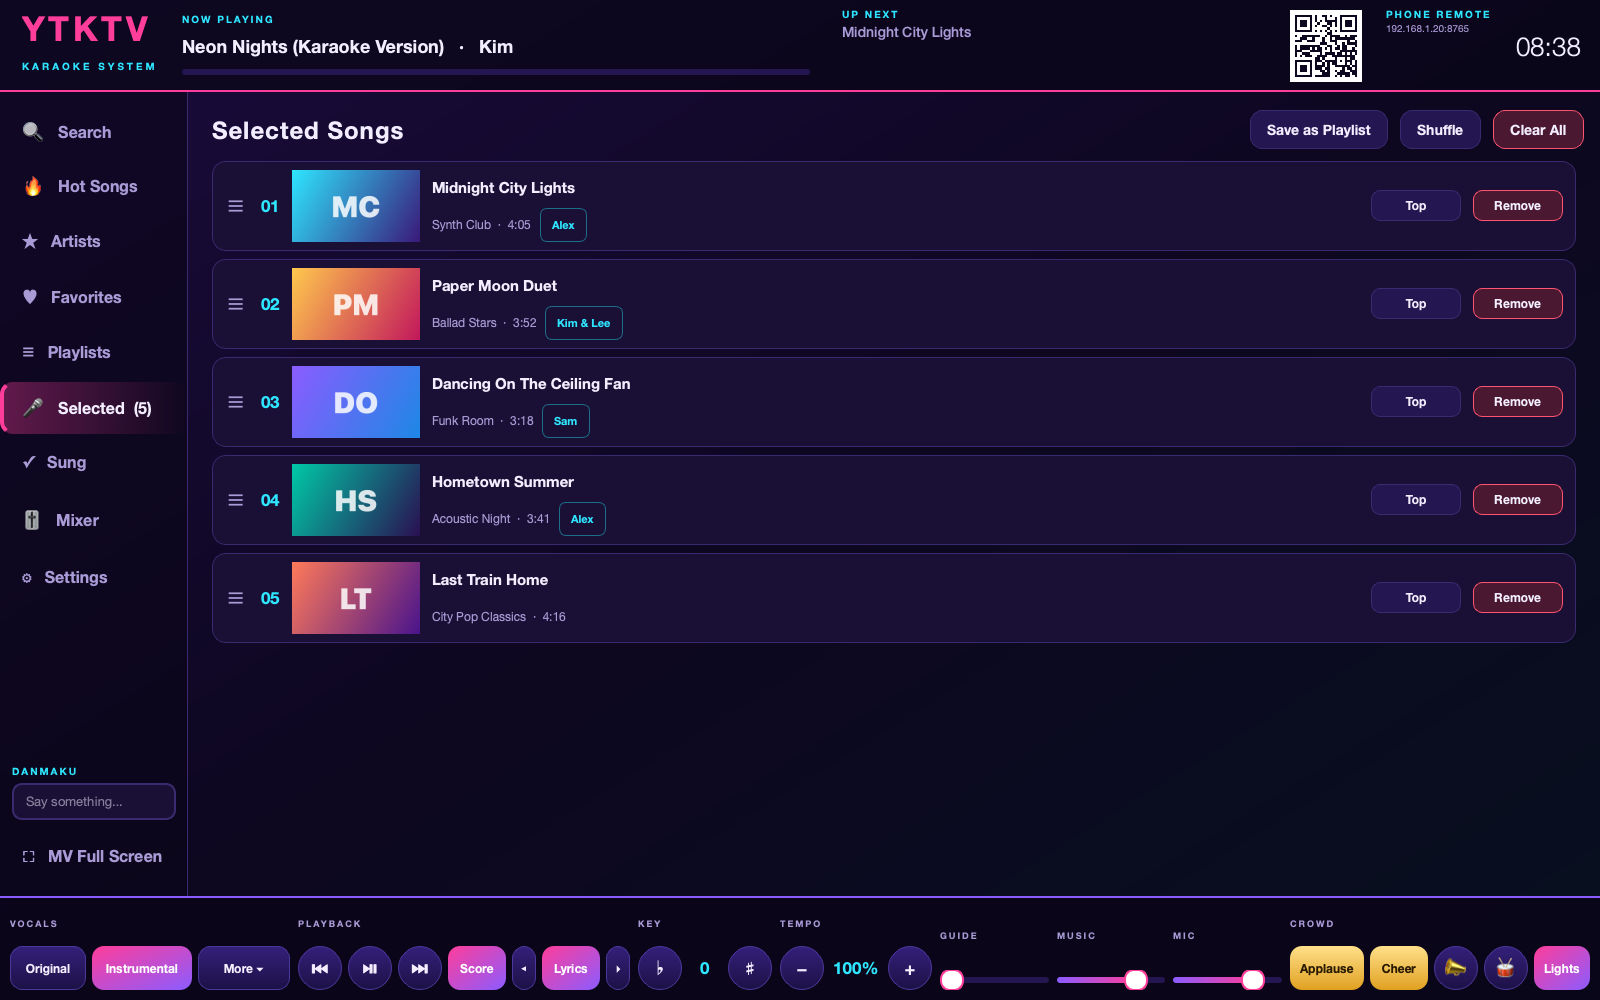
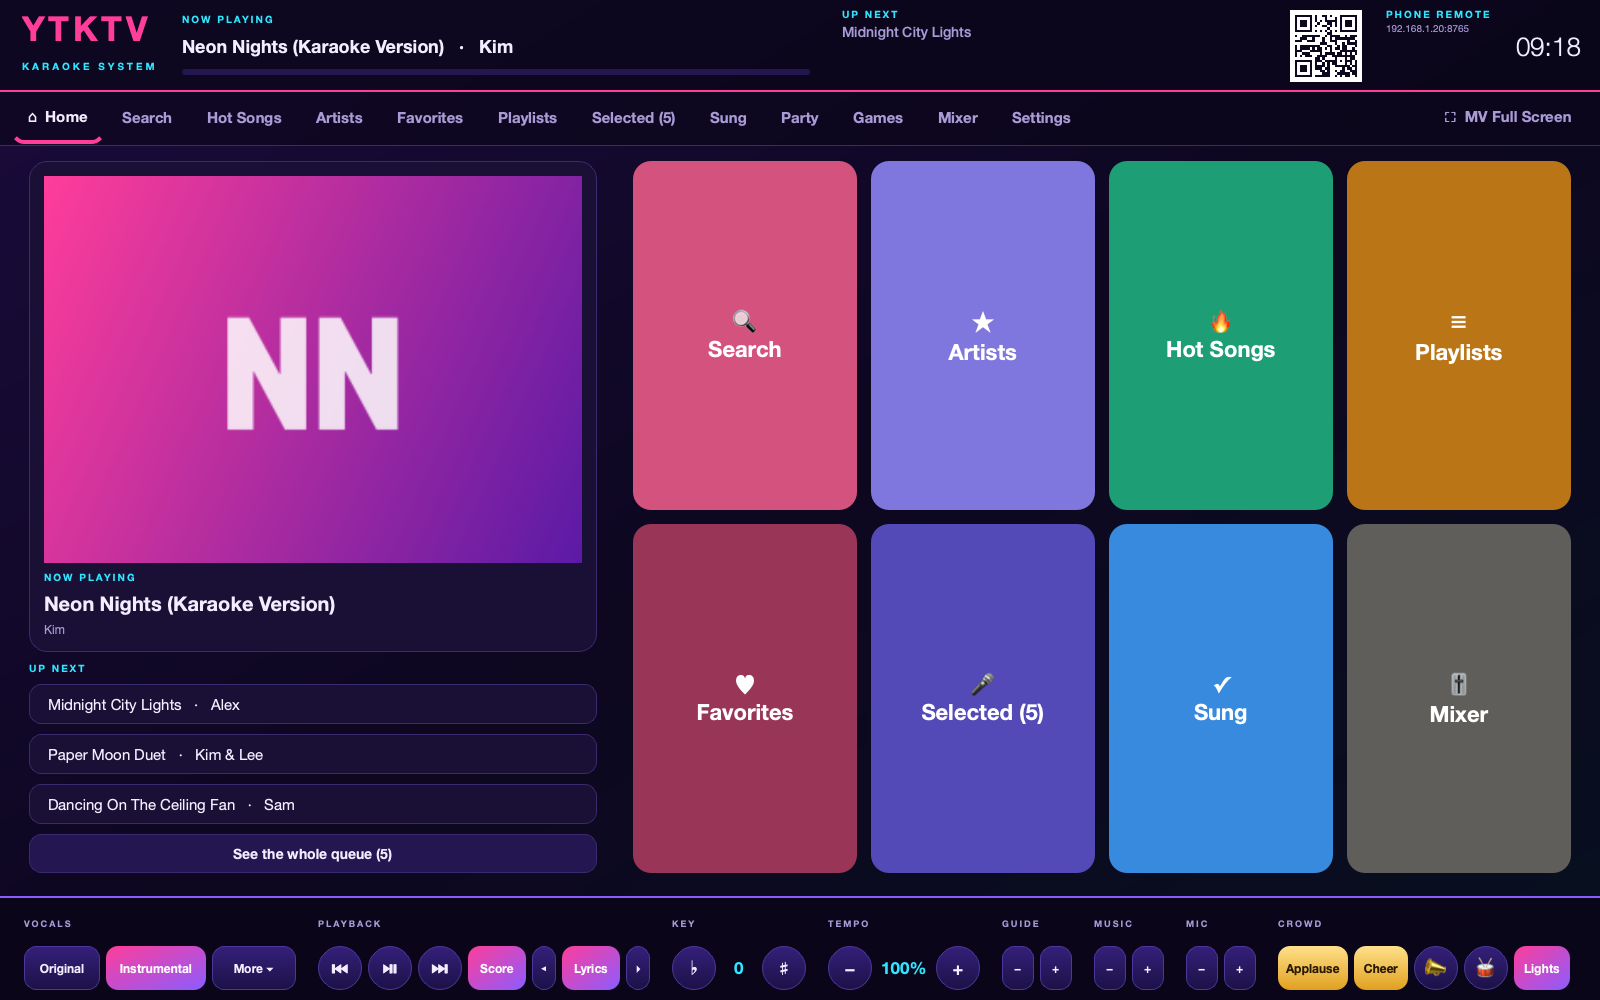
Retake the screenshots for the tile-wall console, Party and Games

diff --git a/site/index.html b/site/index.html
@@ -162,7 +162,7 @@
   <section>
     <div class="wrap">
       <div class="pair">
-        <img src="images/console.png" width="1600" height="1000" alt="The song console with the queue of selected songs" loading="lazy">
+        <img src="images/console.png" width="1600" height="1000" alt="The console home: now playing, up next and big tiles for every feature" loading="lazy">
         <div class="text">
           <h3 data-i18n="p1.t">A song console like the real thing</h3>
           <p data-i18n="p1.d">Big buttons, the queue at a glance, drag to reorder, playlists and favourites. The control bar has everything a KTV remote has.</p>

diff --git a/scripts/readme_images.py b/scripts/readme_images.py
@@ -125,10 +125,15 @@ def console(app: QApplication) -> None:
     run_for(
         app,
         [
-            (600, lambda: window.show_page("queue")),
+            (600, lambda: window.show_page("home")),
             (1500, lambda: window.grab().save(str(OUT / "console.png"))),
             (1600, lambda: window.show_page("mixer")),
             (2600, lambda: window.grab().save(str(OUT / "mixer.png"))),
+            (2700, lambda: window.show_page("party")),
+            (3600, lambda: window.grab().save(str(OUT / "party.png"))),
+            (3700, lambda: window.pages["games"].play("spin")),
+            (3800, lambda: window.show_page("games")),
+            (4700, lambda: window.grab().save(str(OUT / "games.png"))),
         ],
     )
 

diff --git a/README.md b/README.md
@@ -43,7 +43,8 @@ for macOS, Windows and Linux.
 
 | The song console | The mixing console |
 |---|---|
-| ![The song console with the queue of selected songs](docs/images/console.png) | ![The mixing console with four channel strips](docs/images/mixer.png) |
+| ![The console home: now playing, up next and big tiles for every feature](docs/images/console.png) | ![The mixing console with four channel strips](docs/images/mixer.png) |
+| ![The Party tab: danmaku, emoji reactions and crowd sounds](docs/images/party.png) | ![The Games tab: dice, who sings next, truth or dare](docs/images/games.png) |
 
 <p align="center">
   <img src="docs/images/phone.png" alt="The phone page: your songs with waiting times, the queue and tonight's best scores; and the remote with playback, lyrics and vocal controls" width="560">

diff --git a/README.zh-CN.md b/README.zh-CN.md
@@ -39,7 +39,8 @@
 
 | 点歌台 | 调音台 |
 |---|---|
-| ![点歌台的已点歌曲页面](docs/images/console.png) | ![四个通道的调音台](docs/images/mixer.png) |
+| ![点歌台首页：正在播放、下一首和功能大瓷砖](docs/images/console.png) | ![四个通道的调音台](docs/images/mixer.png) |
+| ![派对页：弹幕、表情和气氛音效](docs/images/party.png) | ![小游戏：骰子、谁唱下一首、真心话大冒险](docs/images/games.png) |
 
 <p align="center">
   <img src="docs/images/phone.png" alt="手机页面：我点的歌和等待时间、本场最佳；以及播放、歌词和人声控制" width="560">
